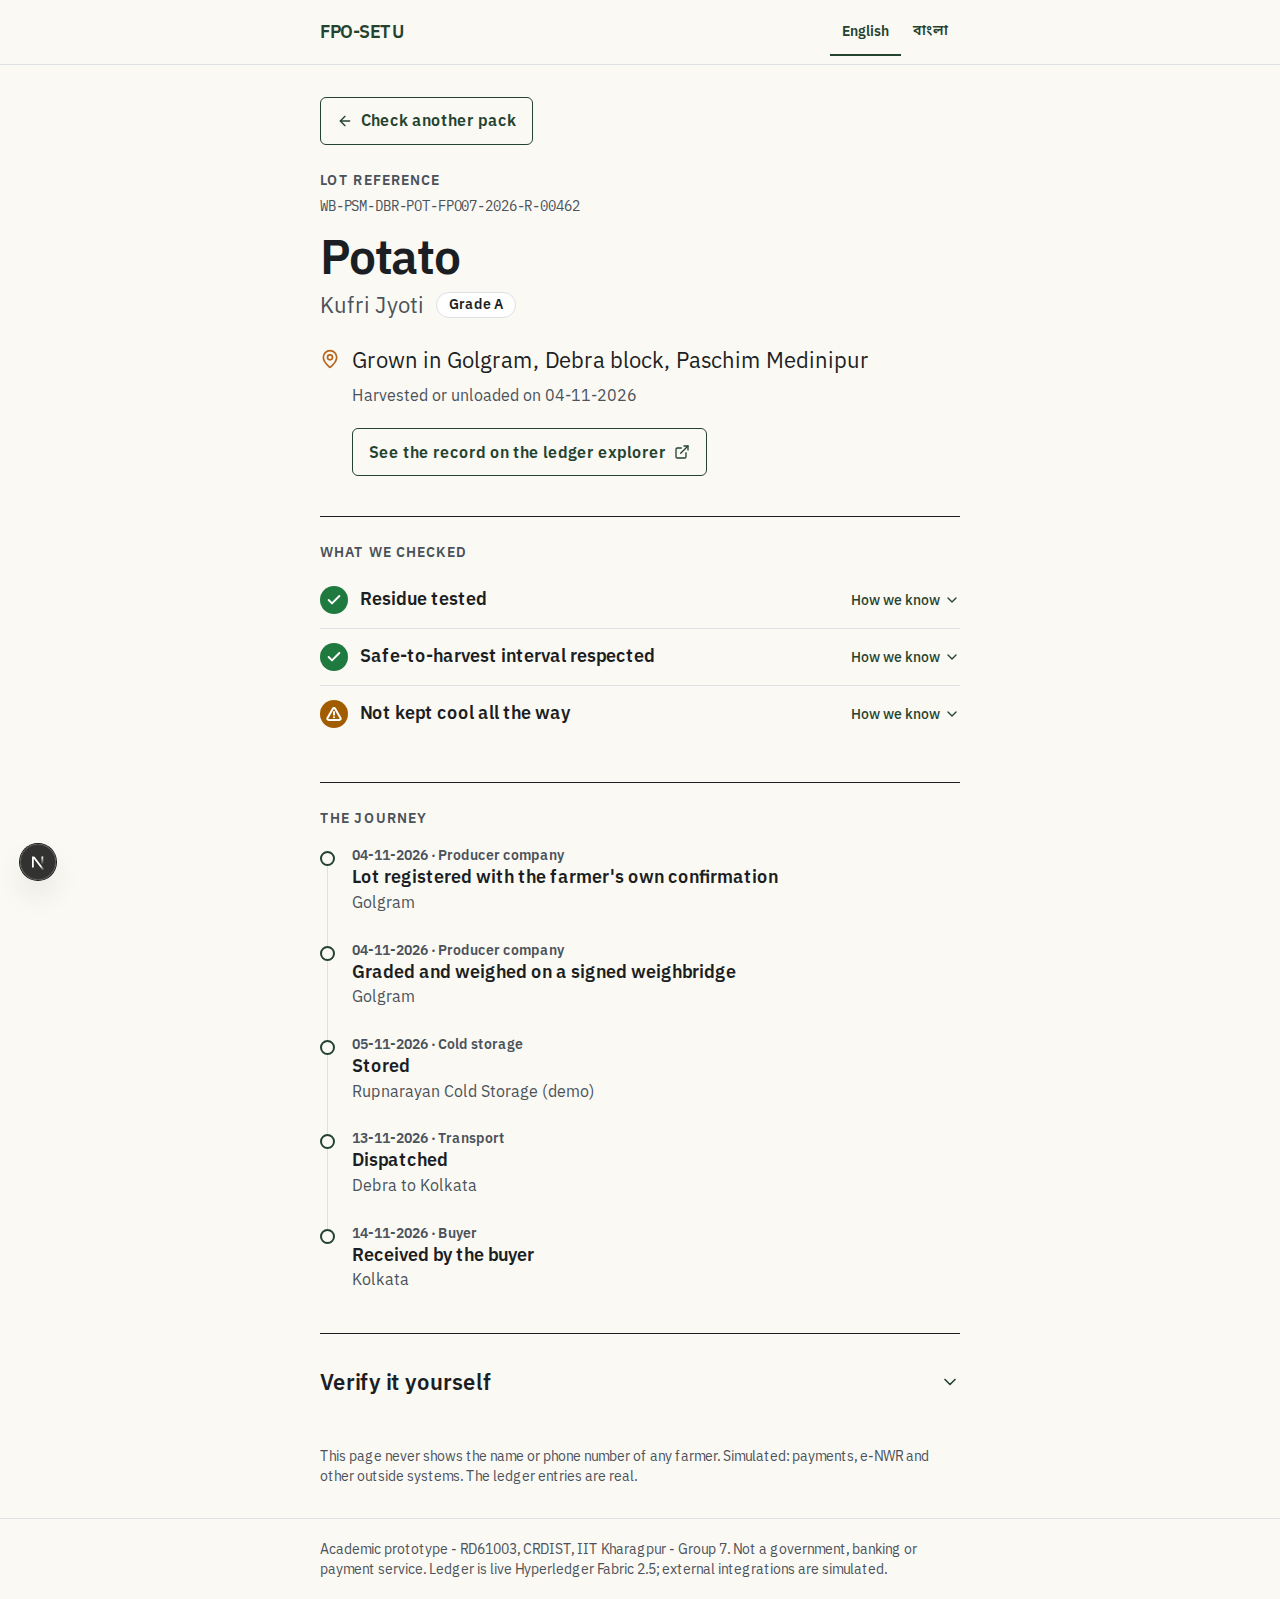
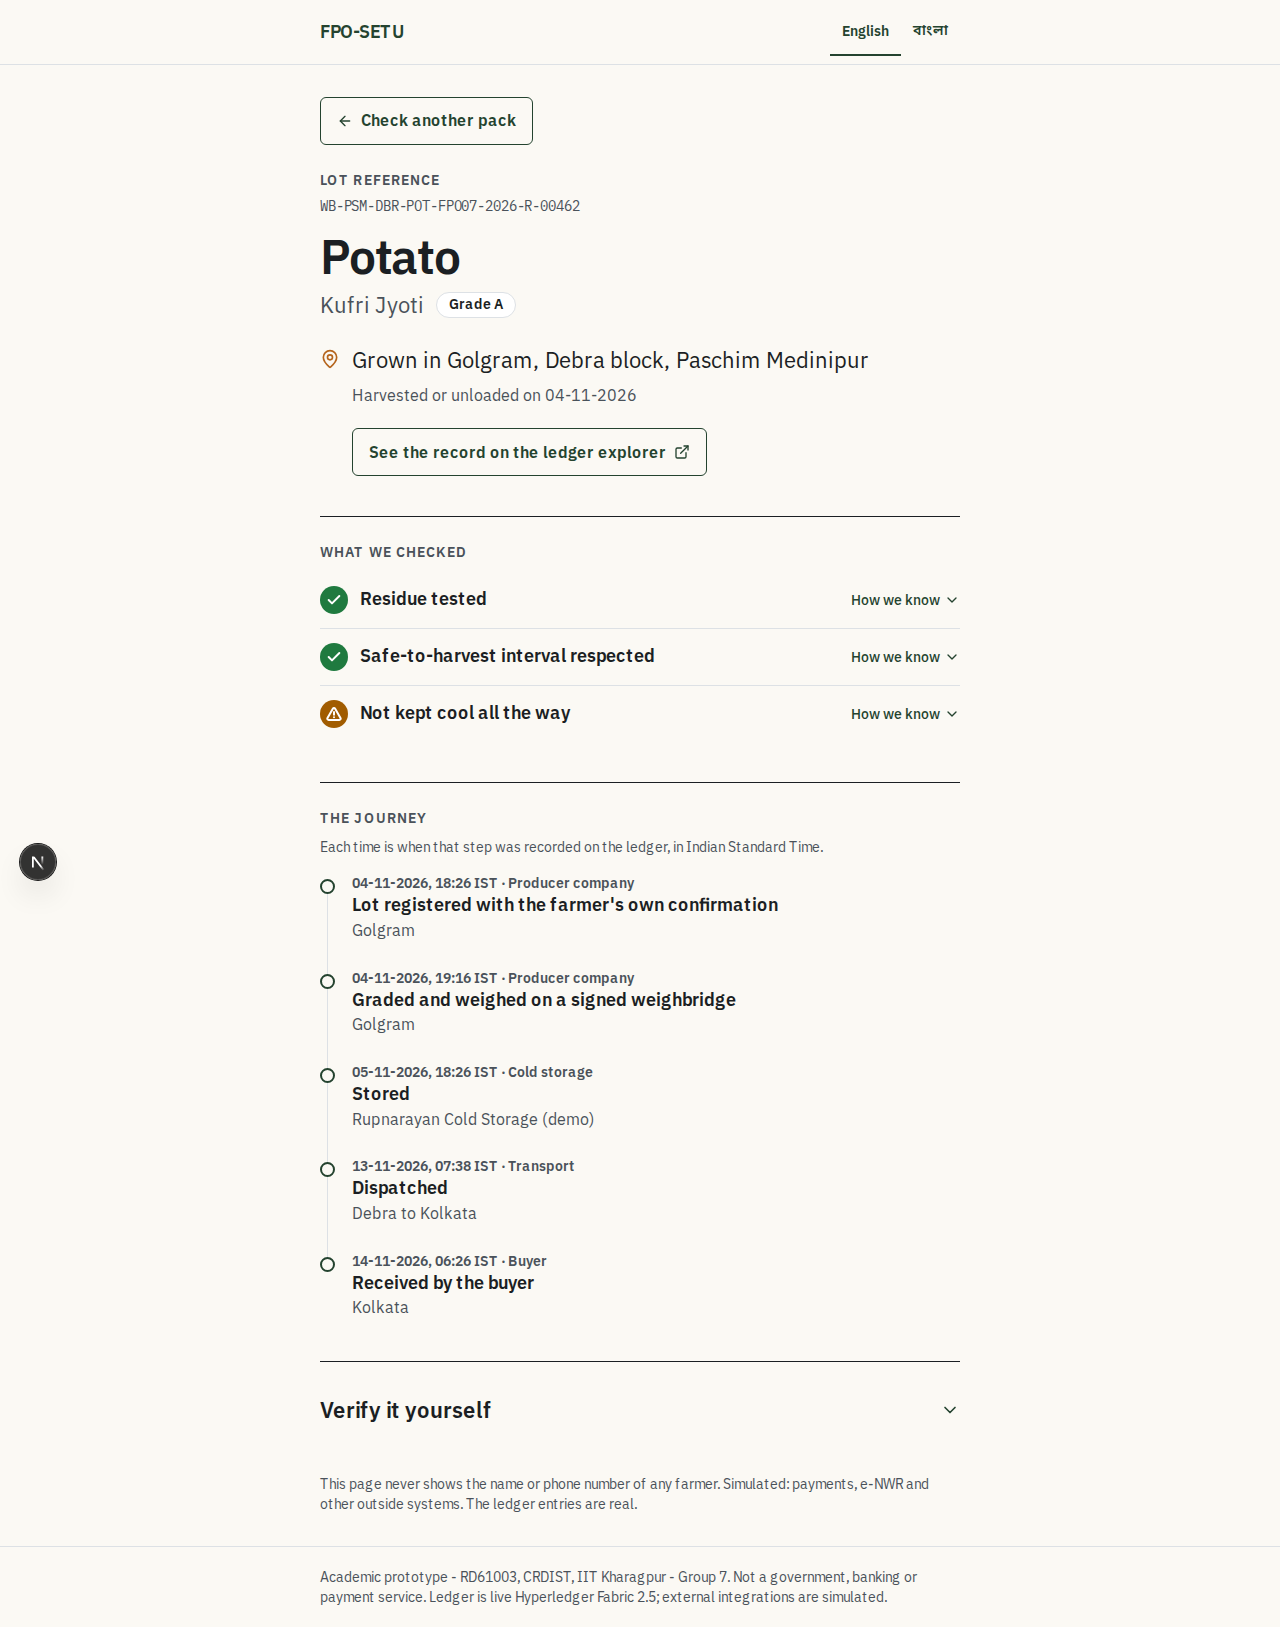
feat(consumer): show the recorded date and time (IST) on each journey step
Every step of a freshly seeded lot was committed in one session, so the
date-only column read as one repeated date. Show the real commit time of each
step (DD-MM-YYYY, HH:MM IST) and say what it is: the time the step was recorded
on the ledger. No dates are derived or invented. Tx links are unchanged.

diff --git a/05-consumer-site/src/components/Provenance.tsx b/05-consumer-site/src/components/Provenance.tsx
@@ -1,6 +1,6 @@
 import { Check, ChevronDown, ExternalLink, MapPin, Minus, TriangleAlert } from 'lucide-react';
 import type { Provenance } from '@/contract/contract';
-import { formatDate, shortTx } from '@/lib/format';
+import { formatDate, formatDateTime, shortTx } from '@/lib/format';
 import { fill, type Dict } from '@/lib/lang';
 import { govTxUrl } from '@/lib/links';
 
@@ -88,12 +88,13 @@ export function ProvenanceView({ p, t, indexOnly }: { p: Provenance; t: Dict; in
 
       <section aria-labelledby="journey" className="mt-10 border-t border-ink pt-6">
         <h2 id="journey" className="eyebrow">{t.lot.journeyTitle}</h2>
+        <p className="mt-2 text-sm text-ink-2">{t.lot.journeyNote}</p>
         <ol className="mt-4">
           {p.journey.map((j, i) => (
             <li key={`${j.at}-${i}`} className="relative pb-6 pl-8 last:pb-0">
               {i < p.journey.length - 1 && <span aria-hidden className="absolute left-[7px] top-4 h-full w-px bg-line" />}
               <span aria-hidden className="absolute left-0 top-1.5 h-[15px] w-[15px] rounded-full border-2 border-accent bg-canvas" />
-              <p className="text-sm font-semibold text-ink-2">{formatDate(j.at)} · {t.lot.orgType[j.orgType] ?? j.orgType}</p>
+              <p className="text-sm font-semibold text-ink-2">{formatDateTime(j.at)} · {t.lot.orgType[j.orgType] ?? j.orgType}</p>
               <p className="text-lg font-semibold leading-snug">{stepLabel(j.step)}</p>
               <p className="text-ink-2">{j.place}</p>
             </li>

diff --git a/05-consumer-site/tests/provenance.spec.ts b/05-consumer-site/tests/provenance.spec.ts
@@ -48,7 +48,7 @@ test('lot without a confirmed safe interval does not claim it', async ({ page })
 });
 
 test('language switch keeps the page and shows Bengali', async ({ page }) => {
-  await page.goto(`/00/${SETTLED}`);
+  await page.goto(`/00/${SETTLED}`, { waitUntil: 'networkidle' }); // dev server: let hydration finish before the click
   await page.getByRole('link', { name: 'বাংলা' }).click();
   await expect(page).toHaveURL(new RegExp(`/00/${SETTLED}\\?lang=bn`));
   await expect(page.getByRole('heading', { level: 1 })).toHaveText('আলু');
@@ -101,4 +101,13 @@ test('no farmer name or phone anywhere in the server-rendered HTML, and no GI wo
       expect(html).toContain('Academic prototype');
     }
   }
+});
+
+test('journey shows the recorded date and time in IST, in order', async ({ page }) => {
+  await page.goto(`/00/${SETTLED}`);
+  await expect(page.getByText('recorded on the ledger, in Indian Standard Time')).toBeVisible();
+  const stamps = await page.locator('#journey ~ ol li p.text-sm').allTextContents();
+  expect(stamps).toHaveLength(5);
+  for (const s of stamps) expect(s).toMatch(/^\d{2}-\d{2}-\d{4}, \d{2}:\d{2} IST · /);
+  expect(new Set(stamps.map((s) => s.split(' · ')[0])).size).toBe(5); // every step has its own recorded time
 });

diff --git a/05-consumer-site/src/lib/format.test.ts b/05-consumer-site/src/lib/format.test.ts
@@ -1,5 +1,5 @@
 import { describe, expect, it } from 'vitest';
-import { formatDate, shortTx } from './format';
+import { formatDate, formatDateTime, shortTx } from './format';
 
 describe('formatDate', () => {
   it('keeps date-only strings as DD-MM-YYYY', () => expect(formatDate('2026-11-02')).toBe('02-11-2026'));
@@ -8,6 +8,14 @@ describe('formatDate', () => {
     expect(formatDate('2026-11-04T12:32:00Z')).toBe('04-11-2026');
   });
   it('returns unparseable input unchanged', () => expect(formatDate('soon')).toBe('soon'));
+});
+
+describe('formatDateTime', () => {
+  it('shows the IST clock time', () => {
+    expect(formatDateTime('2026-11-04T12:32:00Z')).toBe('04-11-2026, 18:02 IST');
+    expect(formatDateTime('2026-11-04T20:00:00Z')).toBe('05-11-2026, 01:30 IST');
+  });
+  it('falls back to a plain date for date-only input', () => expect(formatDateTime('2026-11-02')).toBe('02-11-2026'));
 });
 
 describe('shortTx', () => {

diff --git a/05-consumer-site/src/lib/format.ts b/05-consumer-site/src/lib/format.ts
@@ -9,5 +9,13 @@ export function formatDate(iso: string): string {
   return `${p.day}-${p.month}-${p.year}`;
 }
 
+/** DD-MM-YYYY, HH:MM IST (24-hour) for an ISO timestamp. Date-only or unparseable input falls back to formatDate. */
+export function formatDateTime(iso: string): string {
+  const d = new Date(iso);
+  if (/^\d{4}-\d{2}-\d{2}$/.test(iso) || Number.isNaN(d.getTime())) return formatDate(iso);
+  const p = Object.fromEntries(new Intl.DateTimeFormat('en-GB', { timeZone: IST, hour: '2-digit', minute: '2-digit', hourCycle: 'h23' }).formatToParts(d).map((x) => [x.type, x.value]));
+  return `${formatDate(iso)}, ${p.hour}:${p.minute} IST`;
+}
+
 /** First 8 and last 6 characters of a tx ID, for display. The full ID stays in the link and the title. */
 export const shortTx = (tx: string) => (tx.length > 18 ? `${tx.slice(0, 8)}…${tx.slice(-6)}` : tx);
